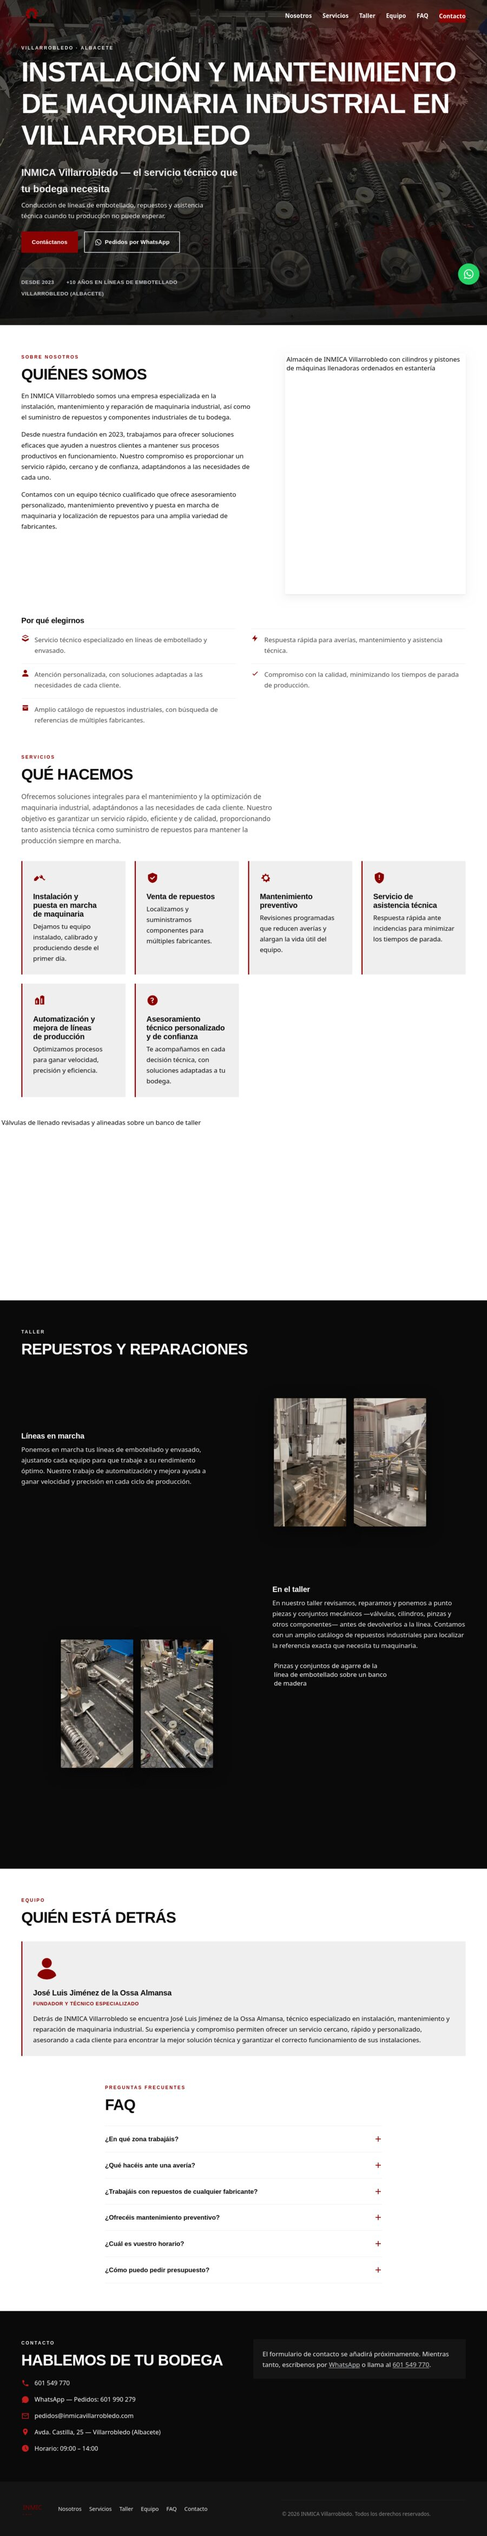
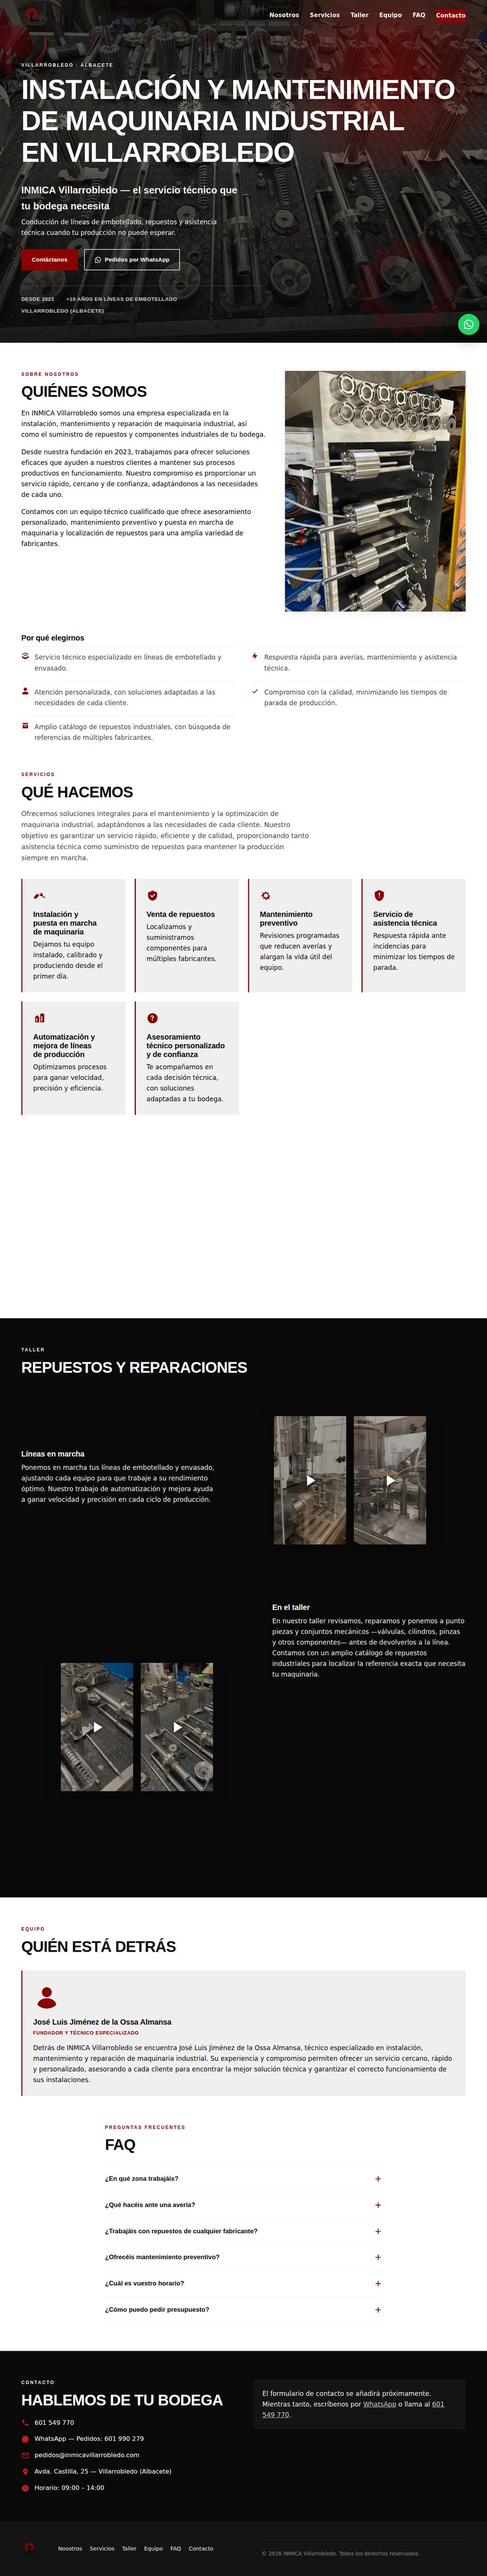
fix(tools): stop preview captures racing the reveal animation (#6)
Landings start .reveal blocks at opacity 0 and fade them in from an
IntersectionObserver. The headless screenshot races that transition, so whatever
is still faded out lands in the PNG as blank space — silently, since the script
only checks that the file is non-empty.

Measuring flat (contentless) rows in the committed previews: 85% on
chantal_verdugo_house, 44% on inmica, against ~38% for a correct capture.

Ask Firefox for reduced motion via a profile user.js. Both landings gate the
hidden state behind `@media (prefers-reduced-motion: no-preference)`, so
"reduce" drops it entirely: content is painted at load, with no transition to
race and JavaScript still enabled.

Also regenerates inmica's preview and syncs the height attribute on both of its
gallery cards (4684 -> 4757).

The pref itself is unverified end to end — firefox is not on PATH in the
environment this was written in. The CSS premise was confirmed in Chromium.

diff --git a/index.html b/index.html
@@ -94,7 +94,7 @@
                   alt=""
                   loading="eager"
                   width="900"
-                  height="4684" />
+                  height="4757" />
               </picture>
             </span>
           </a>
@@ -130,7 +130,7 @@
                     alt=""
                     loading="lazy"
                     width="900"
-                    height="4684" />
+                    height="4757" />
                 </picture>
               </span>
             </a>
